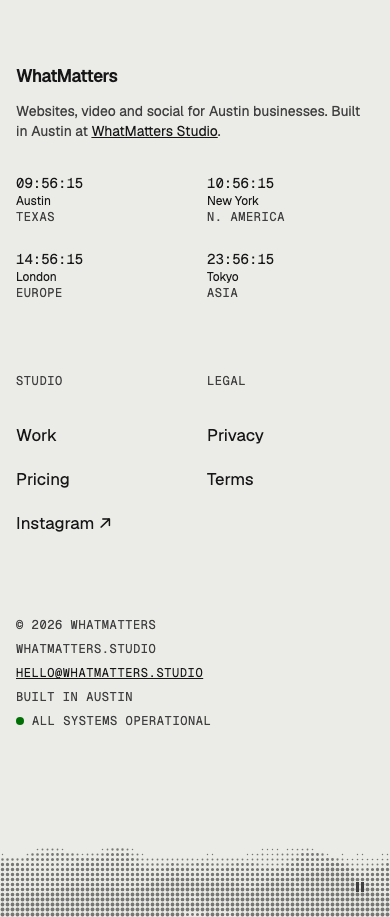
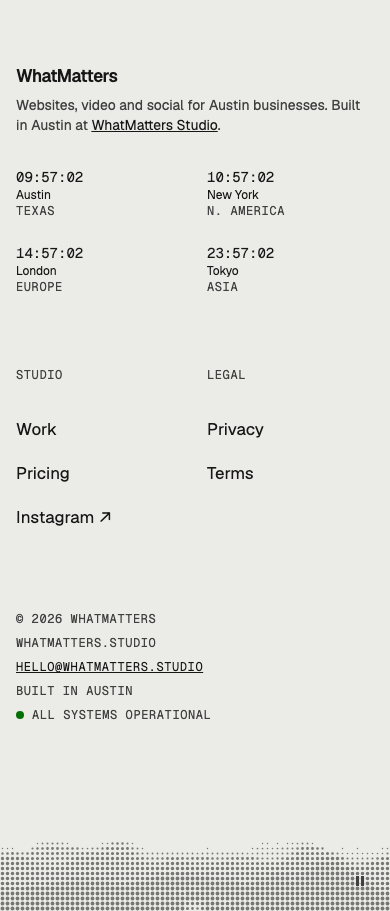
Footer — Landscape: brand and pitch closer still (6px)

diff --git a/patterns/footer/landscape/FooterLandscape.tsx b/patterns/footer/landscape/FooterLandscape.tsx
@@ -44,7 +44,7 @@ const rulesClasses =
   "[&>span:nth-child(n+9)]:hidden lg:[&>span:nth-child(n+9)]:block";
 /** Content top: ~48px of clear paper below the rules (rules 48 / 64, content 80 / 112). */
 const gridClasses = "grid-page relative !pt-16 !pb-0 md:!pt-20 lg:!pt-28";
-const brandBlockClasses = "col-span-full flex flex-col gap-3 md:col-span-5 lg:col-span-6";
+const brandBlockClasses = "col-span-full flex flex-col gap-1.5 md:col-span-5 lg:col-span-6";
 const pitchClasses = "max-w-[40ch] text-muted type-body [&_a]:text-fg [&_a]:underline";
 /** Links: right-aligned block (2 columns of the grid each); 3–4 columns take their own row. */
 const linksClasses = {
@@ -83,7 +83,7 @@ export function FooterLandscape({ brand, pitch, clocks, links = [], facts = [], 
             </p>
           ) : null}
           {clocks != null ? (
-            <div className="mt-5" data-slot="clocks" data-slot-optional="">
+            <div className="mt-6.5" data-slot="clocks" data-slot-optional="">
               {clocks}
             </div>
           ) : null}
